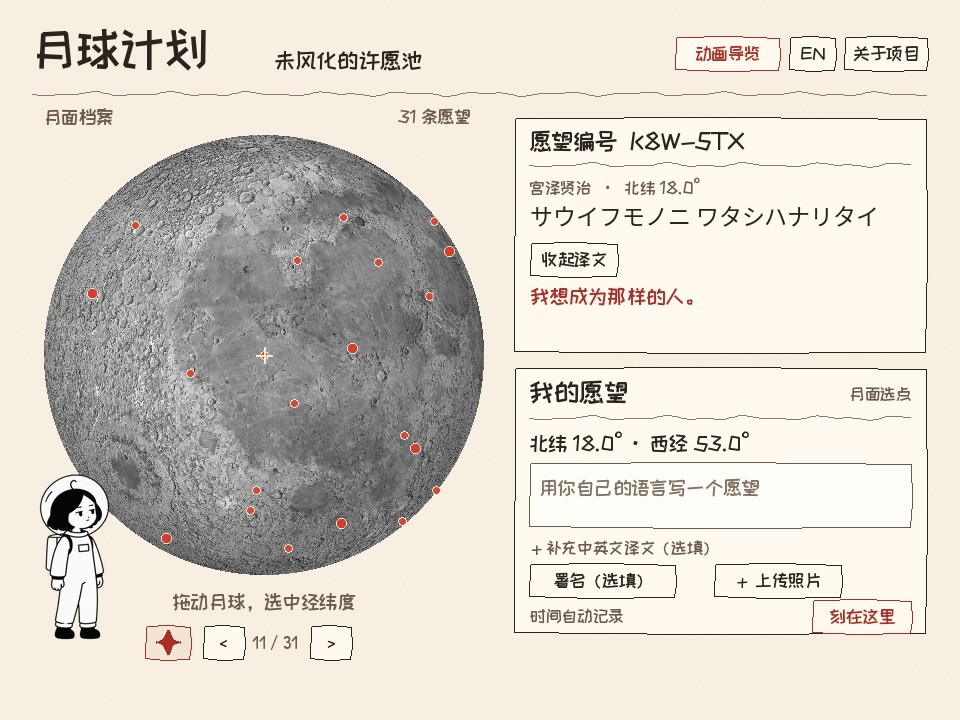
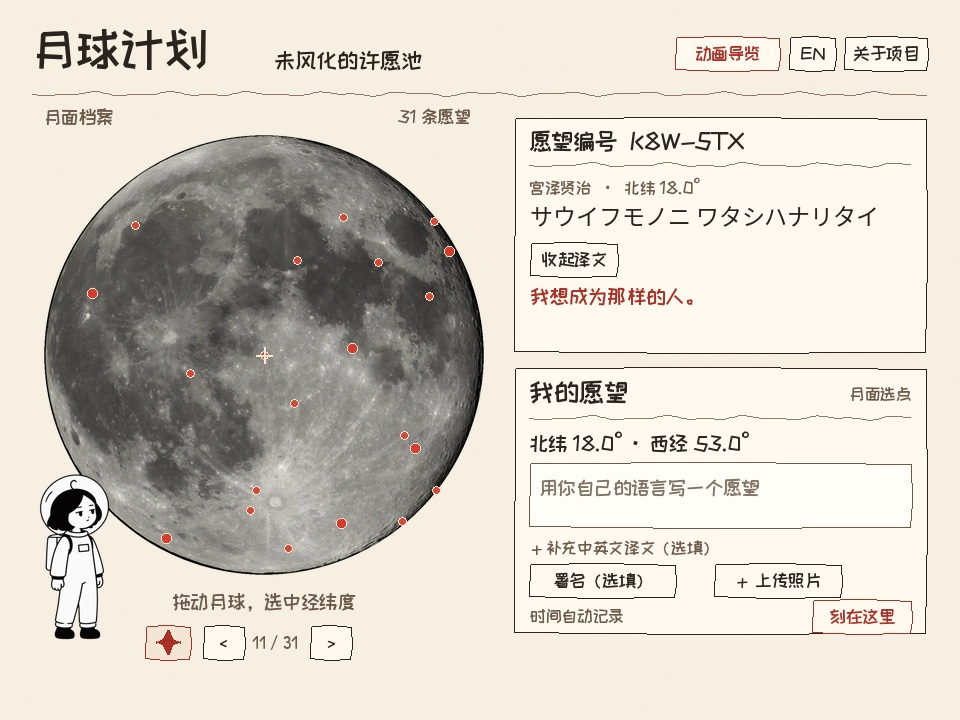
Use a real full Moon photograph in the README preview

Changed region(s): [[0.0312, 0.1833, 0.5312, 0.7944]]

diff --git a/README.md b/README.md
@@ -6,6 +6,8 @@
 
 *网站界面示意图 / Website interface preview*
 
+*满月实拍 / Full Moon photograph by [Luc Viatour](https://www.astro4edu.org/zh-hans/resources/media/e078zz144Z45/), [CC BY-SA 3.0](https://creativecommons.org/licenses/by-sa/3.0/). 照片经裁切、缩放 / Cropped and resized.*
+
 ## 简体中文
 
 ### 未风化的许愿池
